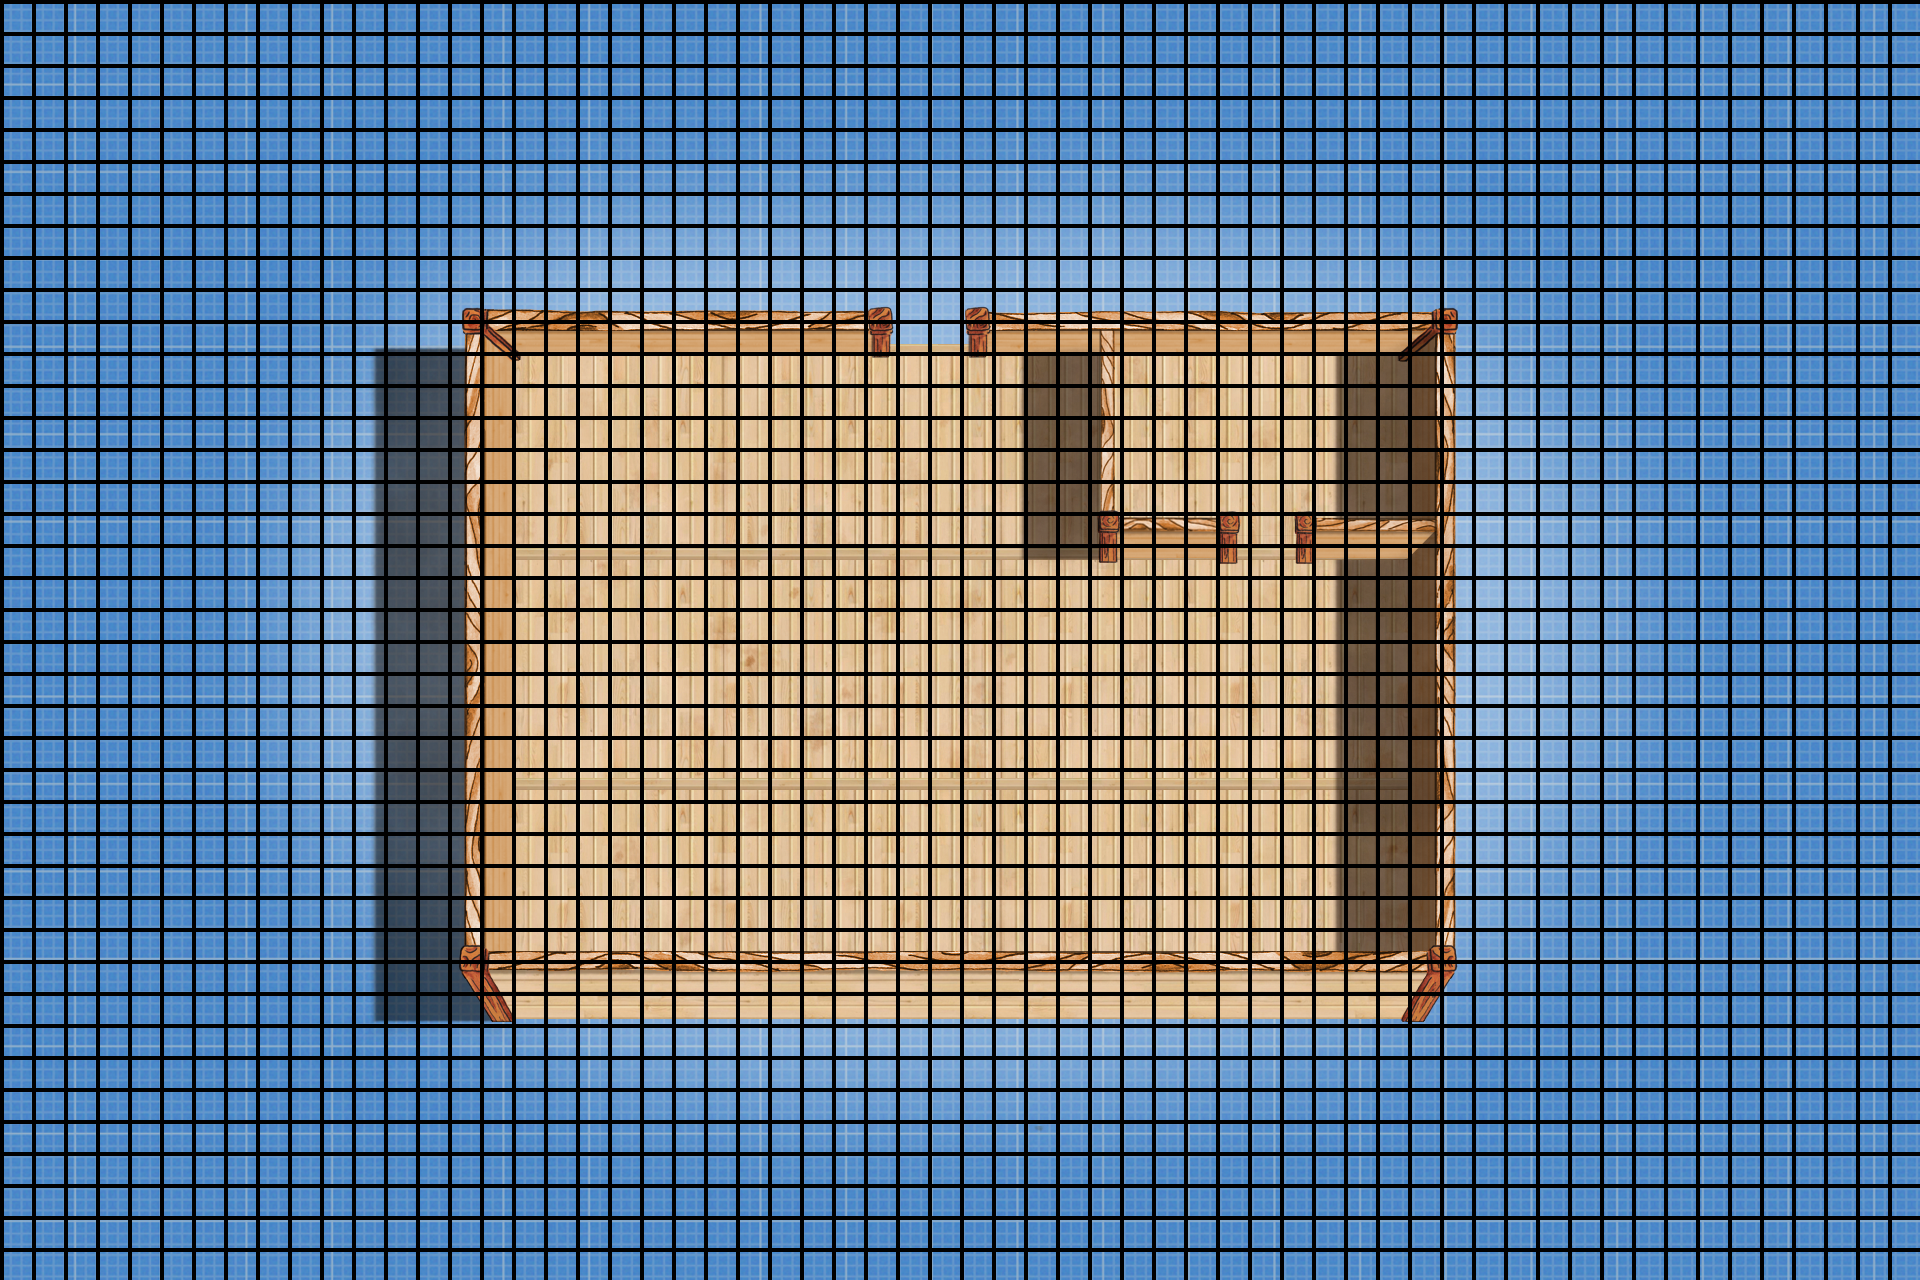
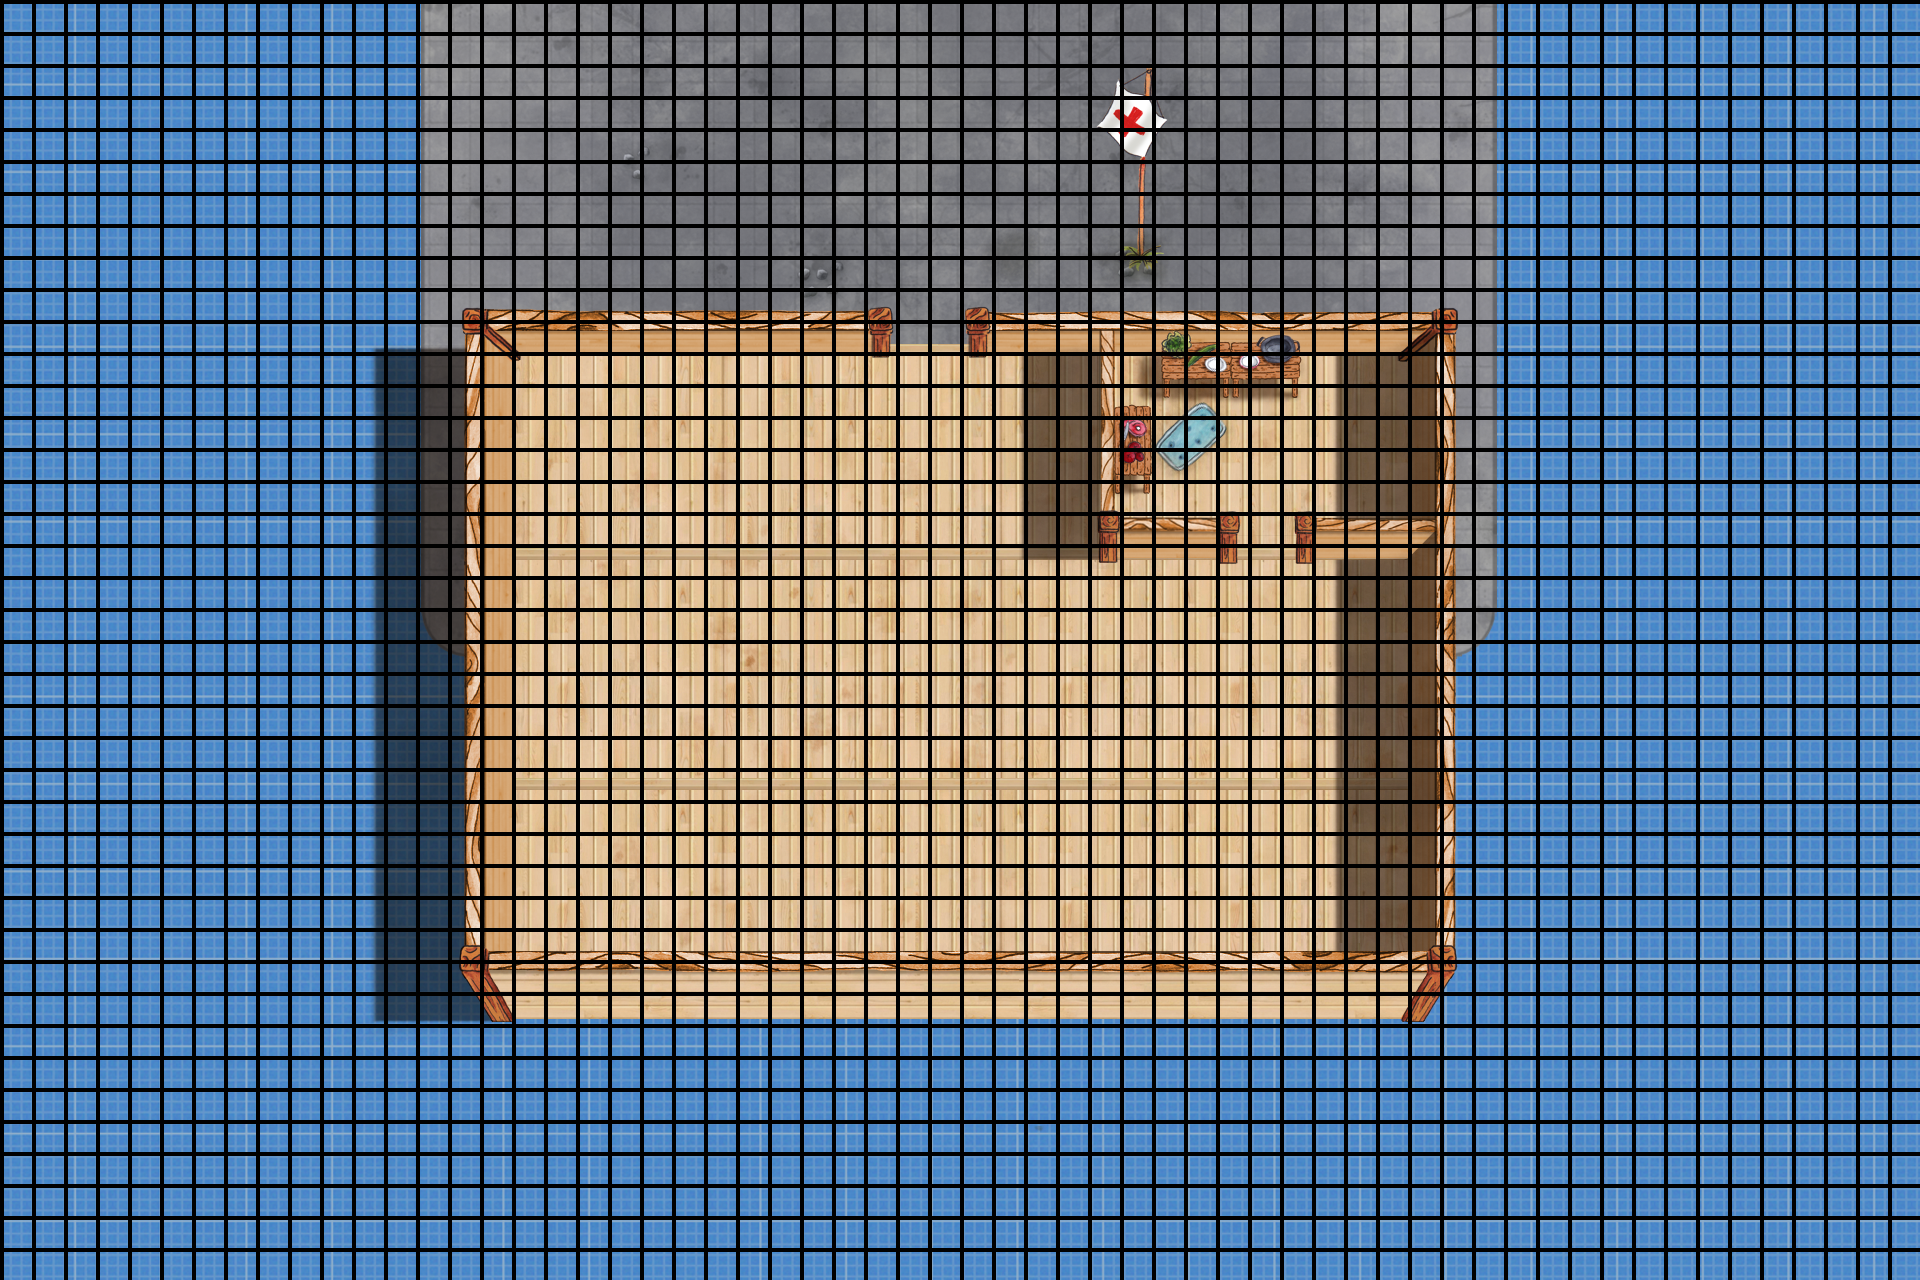
soldier now finds and gets in bed

Changed region(s): [[0.125, 0.0, 0.875, 0.7812], [0.25, 0.7812, 0.7188, 0.875]]

diff --git a/overworld/Overworld.js b/overworld/Overworld.js
@@ -24,25 +24,40 @@ export class Overworld {
         })
         //add initial soldiers to map to be drawn
         const initialSoldiers = soldierService.spawnInitialSoldiers();
+        console.log(initialSoldiers["soldier0"].constructor.name)
 
         this.map.gameObjects = Object.assign(this.map.gameObjects, initialSoldiers);
         console.log(this.map.gameObjects)
 
+        const beds = Object.values(this.map.gameObjects).filter(object =>{
+            return object.isBed === true;
+        }
+        )
+
         this.map.mountObjects()
+
+         
 
         const step = (soldierSpawnInterval) => {
 
+            //Object.values(this.map.gameObjects).filter(object => object.constructor.name === "Soldier").forEach(soldier => soldier.findBed(beds, this.map))
+
+            if(!this.map.gameObjects["soldier4"].inBed){this.map.gameObjects["soldier4"].findBed(beds, this.map)}
+            
+            
+
             this.ctx.clearRect(0,0, this.canvas.width, this.canvas.height)
+
 
             //Establish camera person here
             const cameraPerson = this.map.gameObjects.hero;
 
             //Update all objects
              Object.values(this.map.gameObjects).forEach(object =>{
-                object.update({
-                    arrow: this.directionInput.direction,
-                    map: this.map
-                });
+                    object.update({
+                        arrow: this.directionInput.direction,
+                        map: this.map
+                    });
             });
 
             //Draw background
@@ -54,6 +69,8 @@ export class Overworld {
             }).forEach(object => {
                 object.sprite.draw(this.ctx, cameraPerson);
             })
+
+            
 
             soldierSpawnInterval++;
 

diff --git a/gameObjects/Soldier.js b/gameObjects/Soldier.js
@@ -1,5 +1,6 @@
 import { Sprite } from "./Sprite.js";
 import {Person} from "./Person.js"
+import { OverworldEvent } from "../overworld/OverworldEvent.js";
 
 export class Soldier extends Person {
     constructor(config){
@@ -11,25 +12,28 @@ export class Soldier extends Person {
             src: `/images/characters/soldiers/${this.condition}.png`
         });
         this.inBed = false;
-        this.behaviourLoop = [] //this.findBed() || [];
+        this.behaviourLoop = [];
     }
 
-    findBed(beds){
+    async findBed(beds, soldierMap){
         //returns a behaviour loop array based on AI logic
-        const unoccupiedBeds = beds.filter(bed => {
-            bed.isOccupied = false;
-        })
+        if(!this.inBed){
+            const unoccupiedBeds = beds.filter(bed => {
+                    return bed.isOccupied === false;
+            })
 
-        let targetBed = null;
+            let targetBed = null;
 
-        const sortedBeds = unoccupiedBeds.sort((a, b) => a.quality - b.price)
+            const sortedBeds = unoccupiedBeds.sort((a, b) => a.quality - b.price)
 
-        targetBed = sortedBeds[0]
+            targetBed = sortedBeds[0]
 
-        //TODO: Start a behaviour where the soldier moves into the room
+            this.behaviourLoop = [{type: "walk", direction: "right"}, {type: "walk", direction: "right"}, {type: "walk", direction: "right"}, {type: "walk", direction: "right"}, {type: "walk", direction: "down"}, {type: "walk", direction: "down"}, {type: "walk", direction: "down"}, {type: "getInBed", direction: "down", coordinates: [targetBed.x, targetBed.y], bed: targetBed}];
+        
 
-        this.x = targetBed.x;
-        this.y = targetBed.y;
+            
+        }
+
     }
 
     proceedInQueue(){

diff --git a/overworld/OverworldMap.js b/overworld/OverworldMap.js
@@ -22,17 +22,16 @@ export class OverworldMap {
 
     isSpaceTaken(currentX, currentY, direction){
         const {x,y} = utils.nextPosition(currentX, currentY, direction);
-        return this.walls[`${x},${y}`] || false;
+        return this.walls[`${x},${y}`] || 0;
     }
 
     mountObjects() {
-        Object.keys(this.gameObjects).forEach (key => {
-            
-            let object = this.gameObjects[key]
-            object.id = key;
+        Object.keys(this.gameObjects).forEach (key => {   
+                let object = this.gameObjects[key]
+                object.id = key;
 
-            //TODO: determine if object should mount
-            object.mount(this)
+                //TODO: determine if object should mount
+                object.mount(this)
         })
     }
 
@@ -55,7 +54,7 @@ export class OverworldMap {
     }
 
     addWall(x, y){
-        this.walls[`${x},${y}`] = true;
+        this.walls[`${x},${y}`] = -1;
     }
 
     removeWall(x,y){
@@ -78,11 +77,6 @@ window.OverworldMaps = {
                 x: utils.withGridX(5),
                 y: utils.withGridY(6),
             }),
-            box: new GameObject({
-                x: utils.withGridX(12),
-                y: utils.withGridY(4),
-                src: "./images/characters/box.png"
-            })
         },
         walls : {
             [utils.asGridCoord(12,4)] : true,

diff --git a/overworld/OverworldEvent.js b/overworld/OverworldEvent.js
@@ -54,6 +54,32 @@ export class OverworldEvent {
         document.addEventListener("PersonWalkingComplete", completeHandler)
     }
 
+    getInBed(resolve){
+        const who = this.map.gameObjects[this.event.who];
+        who.startBehaviour( 
+            { 
+                map: this.map
+            }, 
+            {
+                type: "getInBed",
+                direction: this.event.direction,
+                retry: true,
+                coordinates: this.event.coordinates,
+                bed: this.event.bed
+            }
+        )
+
+        const completeHandler = e => {
+            
+            if(e.detail.whoId === this.event.who){
+                document.removeEventListener("SoldierGetInBedComplete", completeHandler);
+                resolve();
+            }
+        }
+
+        document.addEventListener("SoldierGetInBedComplete", completeHandler)
+    }
+
     textMessage(resolve){
         const message = new TextMessage({
             text: this.event.text,

diff --git a/gameObjects/Person.js b/gameObjects/Person.js
@@ -37,7 +37,7 @@ export class Person extends GameObject {
         this.direction = behaviour.direction;
         if(behaviour.type === "walk"){
             //Stop if space is not free
-            if(state.map.isSpaceTaken(this.x, this.y, this.direction)){
+            if(state.map.isSpaceTaken(this.x, this.y, this.direction) === -1){
 
                 behaviour.retry && setTimeout(() => {
                     this.startBehaviour(state, behaviour)
@@ -59,6 +59,19 @@ export class Person extends GameObject {
                 })
                 this.isStanding = false;
             }, behaviour.time)
+        }
+
+        if(behaviour.type === "getInBed"){
+
+            console.log(behaviour)
+
+            setTimeout(() => {
+                this.x = behaviour.coordinates[0] + 16;
+                this.y = behaviour.coordinates[1];
+                behaviour.bed.isOccupied = true;
+            }, 400
+            )
+            
         }
     }
 

diff --git a/index.html b/index.html
@@ -620,6 +620,7 @@
 
     <!-- Scripts -->
     <scripts type="module" src="./utils/utils.js"></scripts>
+    <scripts type="module" src="./utils/aStar.js"></scripts>
     <scripts type="module" src="./text/RevealingText.js"></scripts>
     <scripts type="module" src="./text/TextMessage.js"></scripts>
     <scripts type="module" src="./utils/KeyPressListener.js"></scripts>

diff --git a/gameObjects/GameObject.js b/gameObjects/GameObject.js
@@ -20,7 +20,7 @@ export class GameObject {
             noSheet: this.isBed
         });
 
-        this.isOccupied = false;
+        
     }
 
     mount(map){
@@ -60,7 +60,9 @@ export class GameObject {
         }
 
         //Next iteration of the loop
+
         this.doBehaviourEvent(map)
+
     }
 
 }

diff --git a/overworld/SoldierService.js b/overworld/SoldierService.js
@@ -17,7 +17,7 @@ export class SoldierService {
         if(this.dayType === "calm"){
 
             let newX = utils.withGridX(0);
-            let newY = utils.withGridY(1);
+            let newY = utils.withGridY(-2);
 
             for(let i = 0; i < 5; i++){
 
